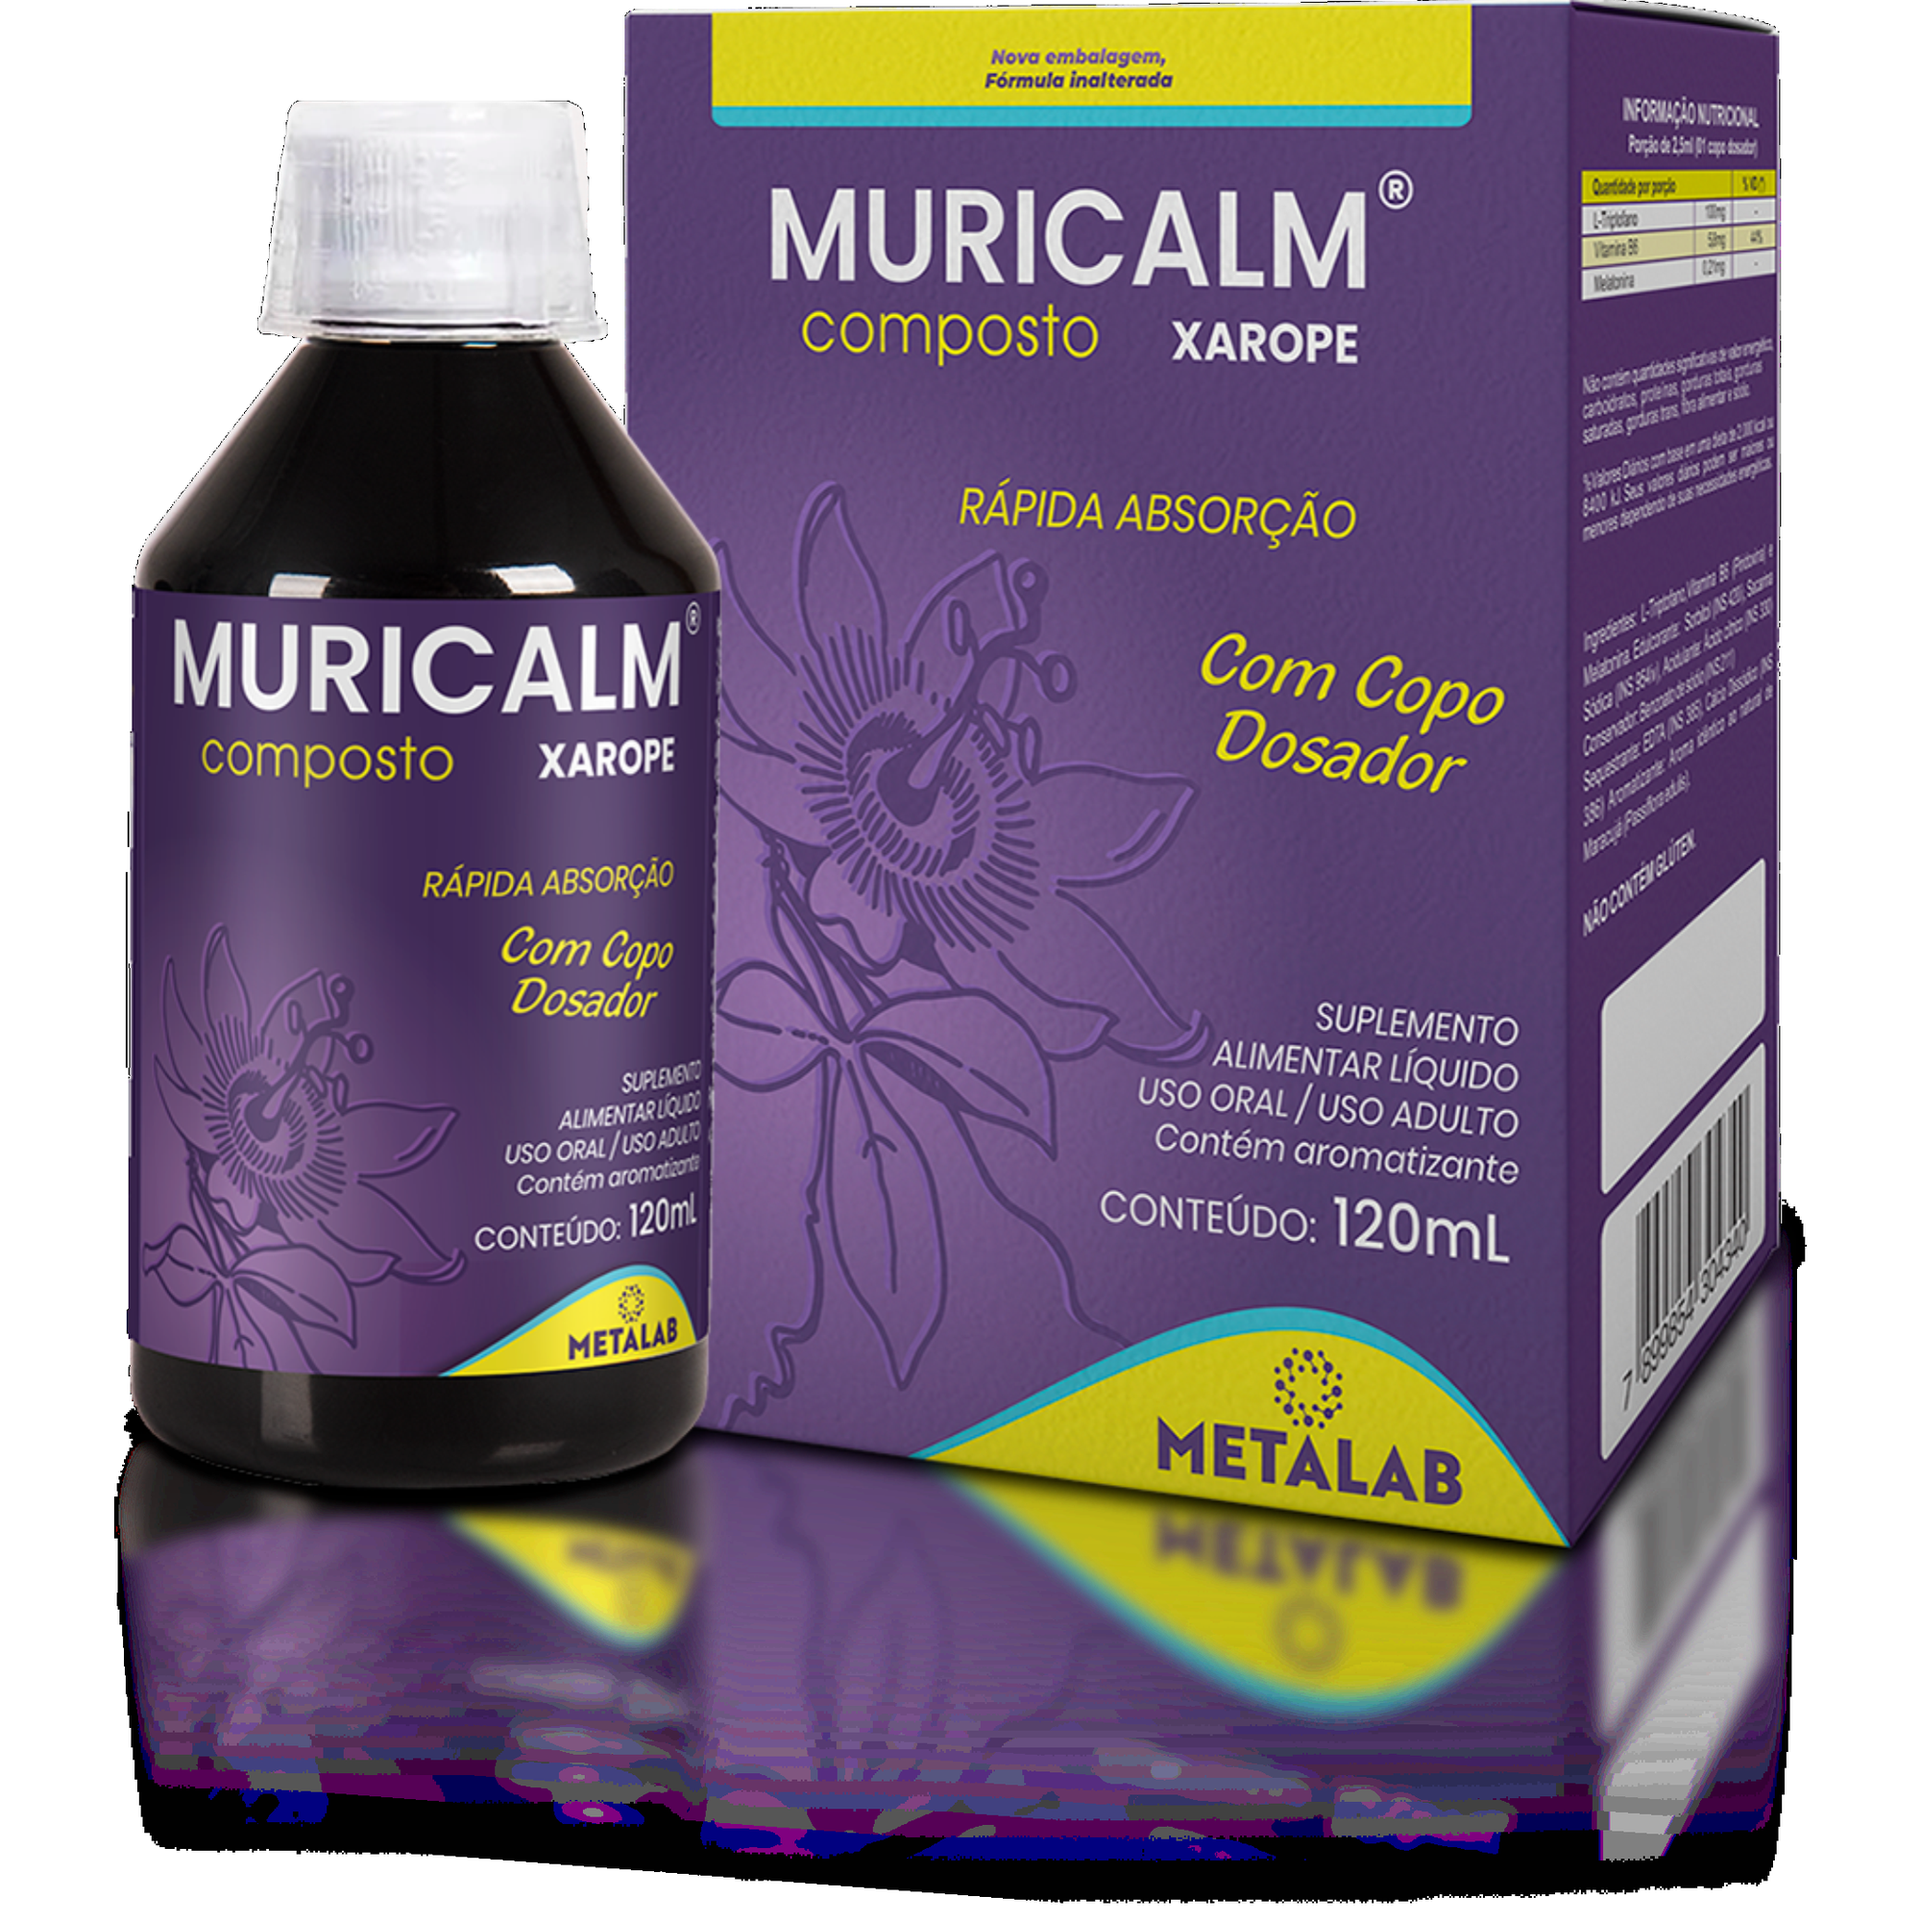
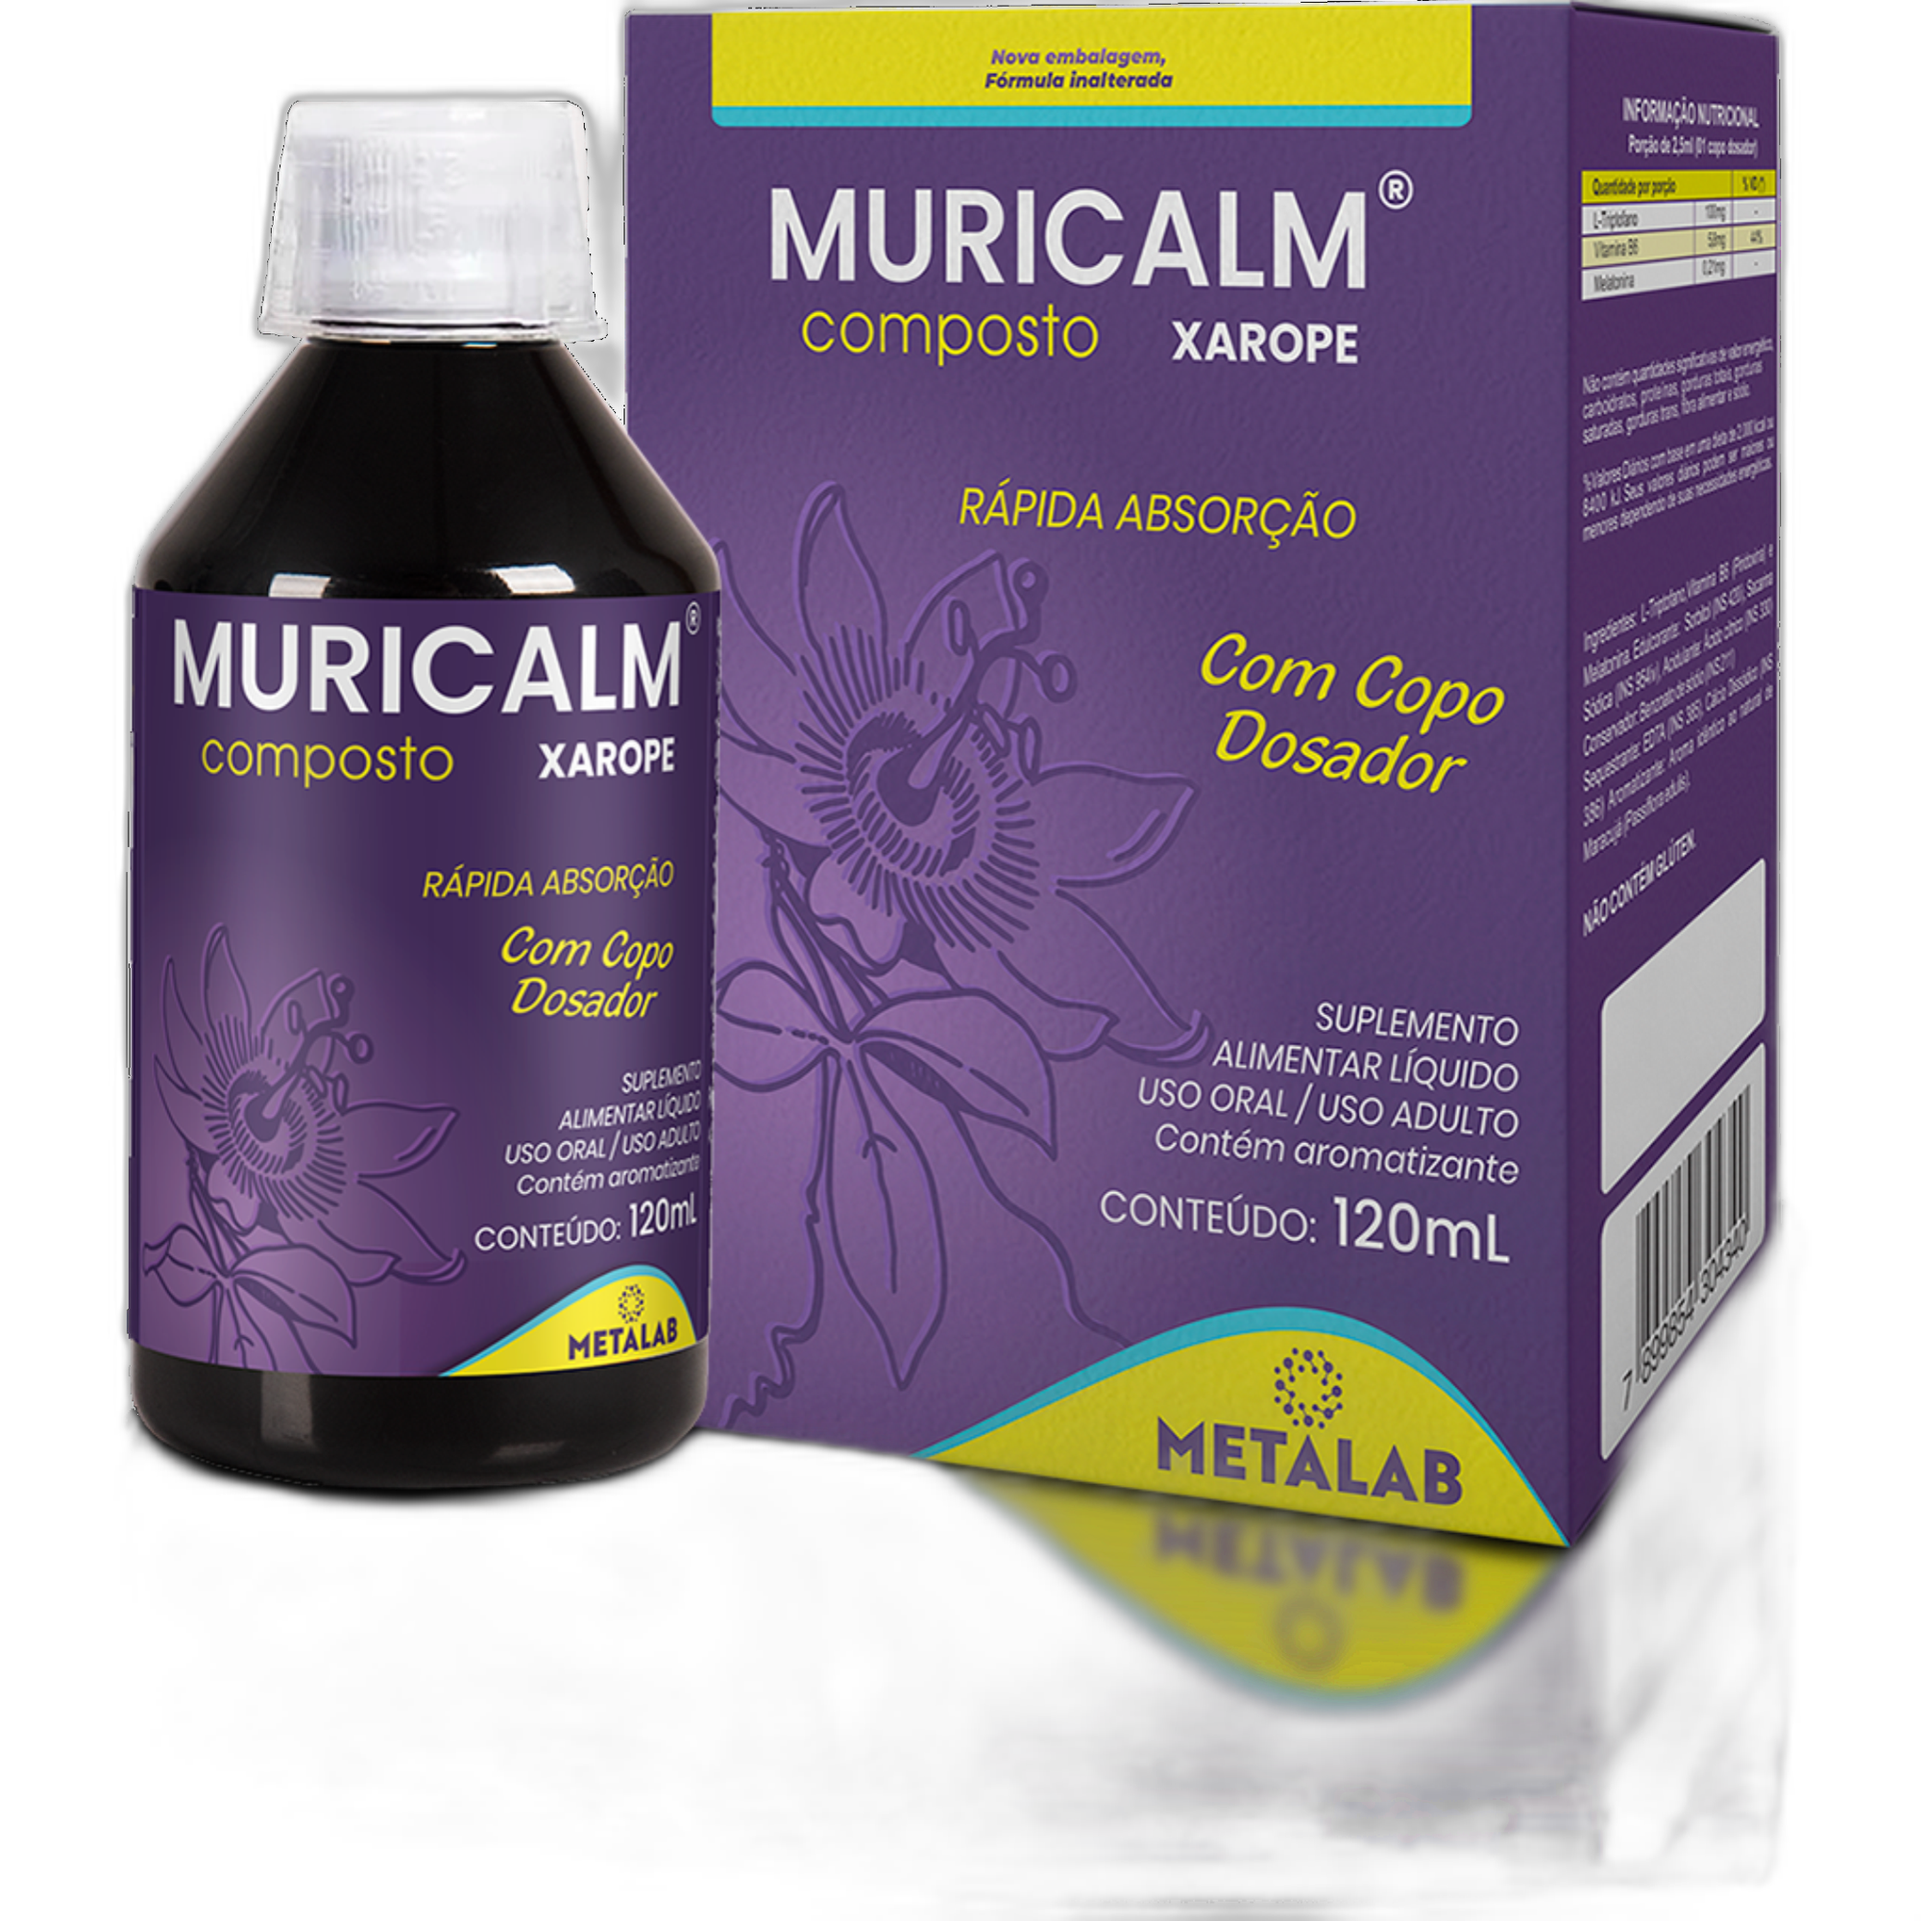
fix: fundo transparente no arquivo servido (muricalm-xarope.png) + script list-products reusa lib/prisma
Claude-Session: https://claude.ai/code/session_014yLTMNjwhAWawqibXF3BBi

diff --git a/scripts/list-products.ts b/scripts/list-products.ts
@@ -1,9 +1,4 @@
-import { PrismaPg } from "@prisma/adapter-pg"
-import { PrismaClient } from "@prisma/client"
-
-const connectionString = process.env.DATABASE_URL!
-const adapter = new PrismaPg({ connectionString, max: 2, ssl: { rejectUnauthorized: false } })
-const prisma = new PrismaClient({ adapter })
+import { prisma } from "../lib/prisma"
 
 async function main() {
   const products = await prisma.produto.findMany({
